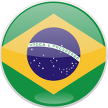
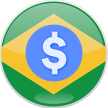
[Certification Adjustments] To support production deployment

Changed region(s): [[0.2222, 0.2222, 0.7778, 0.7778]]

diff --git a/index.js b/index.js
@@ -8,7 +8,9 @@
 'use strict';
 
 const Alexa = require('alexa-sdk');
-
+const request = require('request');
+const cheerio = require('cheerio');
+const API_URL = 'http://agenciadenoticias.ibge.gov.br/en/agencia-news';
 const APP_ID = 'amzn1.ask.skill.fe224f06-f8ad-4279-bc27-9f7a53144f8a';
 
 const handlers = {
@@ -46,25 +48,23 @@ exports.handler = function handle(event, context) {
   const alexa = Alexa.handler(event, context);
   alexa.APP_ID = APP_ID;
 
-  const request = require('request');
-  const cheerio = require('cheerio');
-  sourceData = 'http://agenciadenoticias.ibge.gov.br/en/agencia-news.html';
-
-  request(sourceData, function call(error, response, body) {
+  request(API_URL, function call(error, response, body) {
     let facts = [];
     let news = '';
+    let bigNews = '';
+    let bundleNews = 0;
     let $ = '';
     let document;
     let languageStrings = {
       'en': {
         translation: {
           FACTS: [
-            'What about Brazil is not available at the moment, try again later.',
+            'Brazil\'s Economy Review is not available at the moment, try again later.',
           ],
-          SKILL_NAME: 'What about Brazil',
-          GET_FACT_MESSAGE: 'In Brazil this week: ',
-          OUT_FACT_MESSAGE: 'That is it, for more updates about Brazil just ask: What about Brazil.',
-          HELP_MESSAGE: 'You can say tell me what about Brazil, or, you can say exit... What can I help you with?',
+          SKILL_NAME: 'Brazil Economy Review',
+          GET_FACT_MESSAGE: 'In Brazil\'s Economy this week: ',
+          OUT_FACT_MESSAGE: '. And that is it, for more updates and statistics about Brazil just ask: Brazil Economy Review.',
+          HELP_MESSAGE: 'You can say: Brazil Economy Review, or, you can say exit... What can I help you with?',
           HELP_REPROMPT: 'What can I help you with?',
           STOP_MESSAGE: 'Bye.',
         },
@@ -79,15 +79,29 @@ exports.handler = function handle(event, context) {
     // Parse the document body
       $ = cheerio.load( body );
       facts = [];
-      factsList = '';
       news = '';
+      bigNews = '';
+      bundleNews = 3;
 
       $('.lista-noticias__texto').each(function() {
         document = $(this);
         news = document.text().trim();
         news = news.replace('[Retratos]', '');
+        news = news.replace('...', '');
         news = news.replace('\r\n\t\t\t\t\t\t\r\n\t\t\t\t\t\t\t', ' ');
-        facts.push(news);
+
+        if (bundleNews > 0) {
+          if (bigNews !== '') {
+            bigNews = bigNews + '. Also in Brazil\'s Economy this week: ' + news;
+          } else {
+            bigNews = news;
+          }
+          bundleNews -= 1;
+        } else {
+          facts.push(bigNews);
+          bigNews = '';
+          bundleNews = 3;
+        }
       });
 
       languageStrings.en.translation.FACTS = facts;
